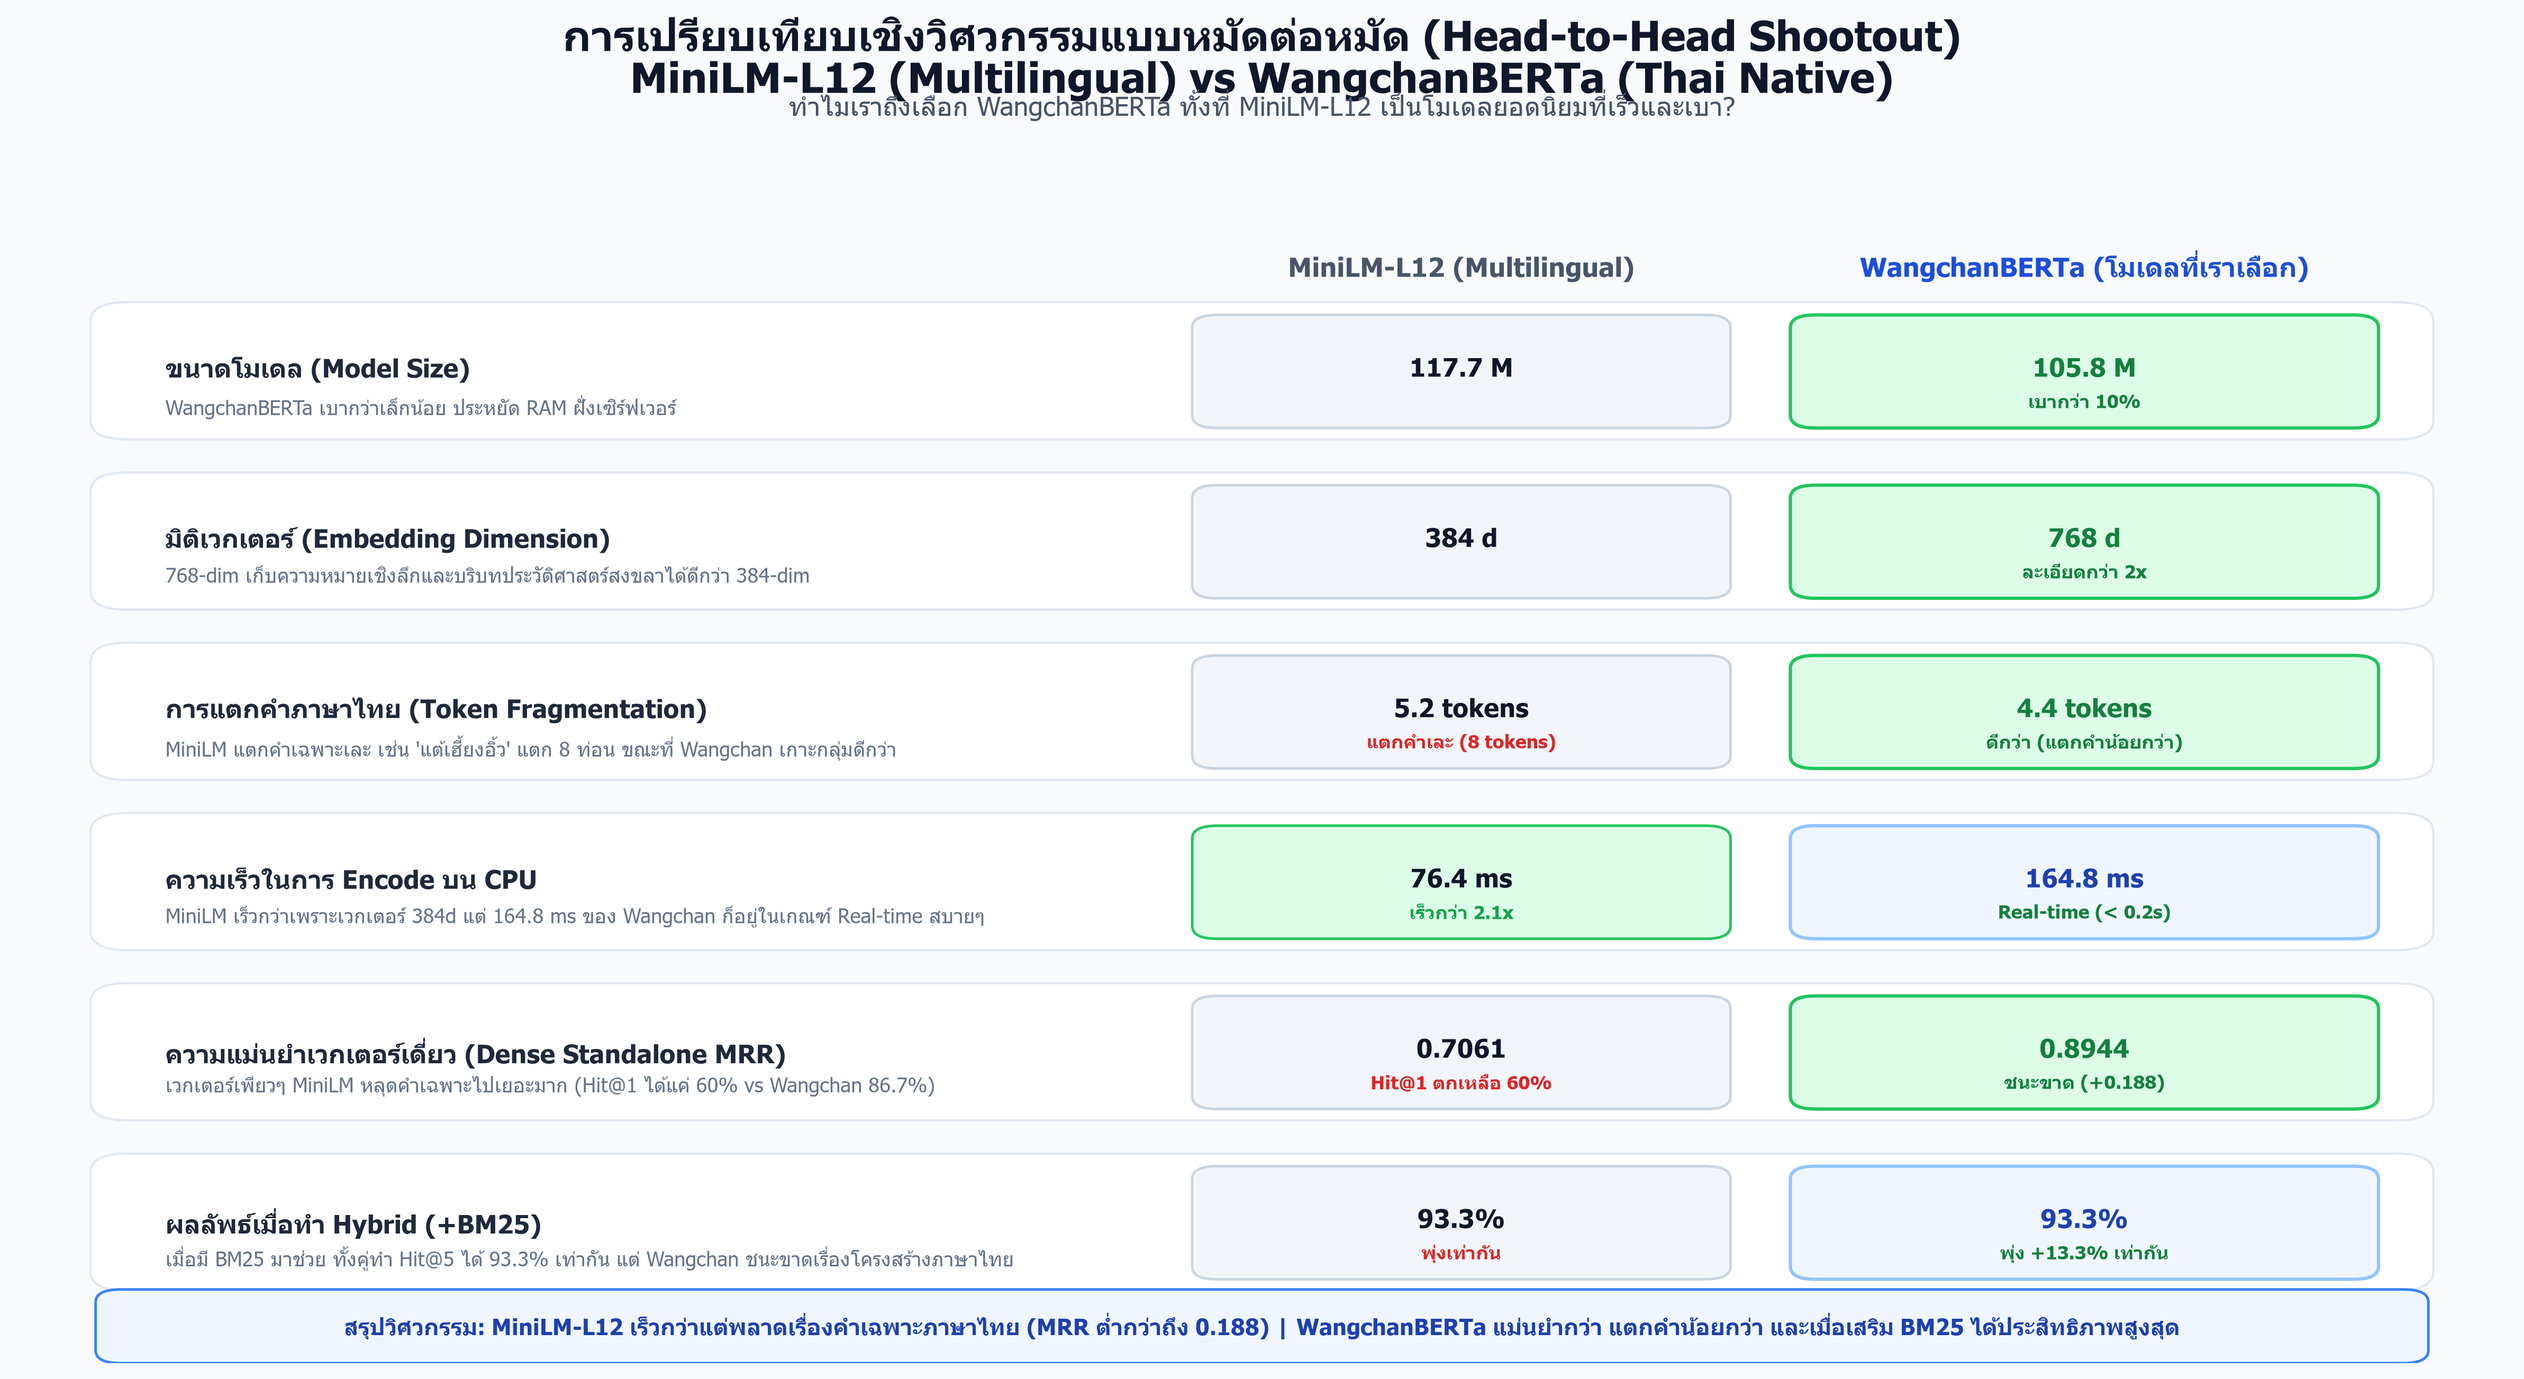
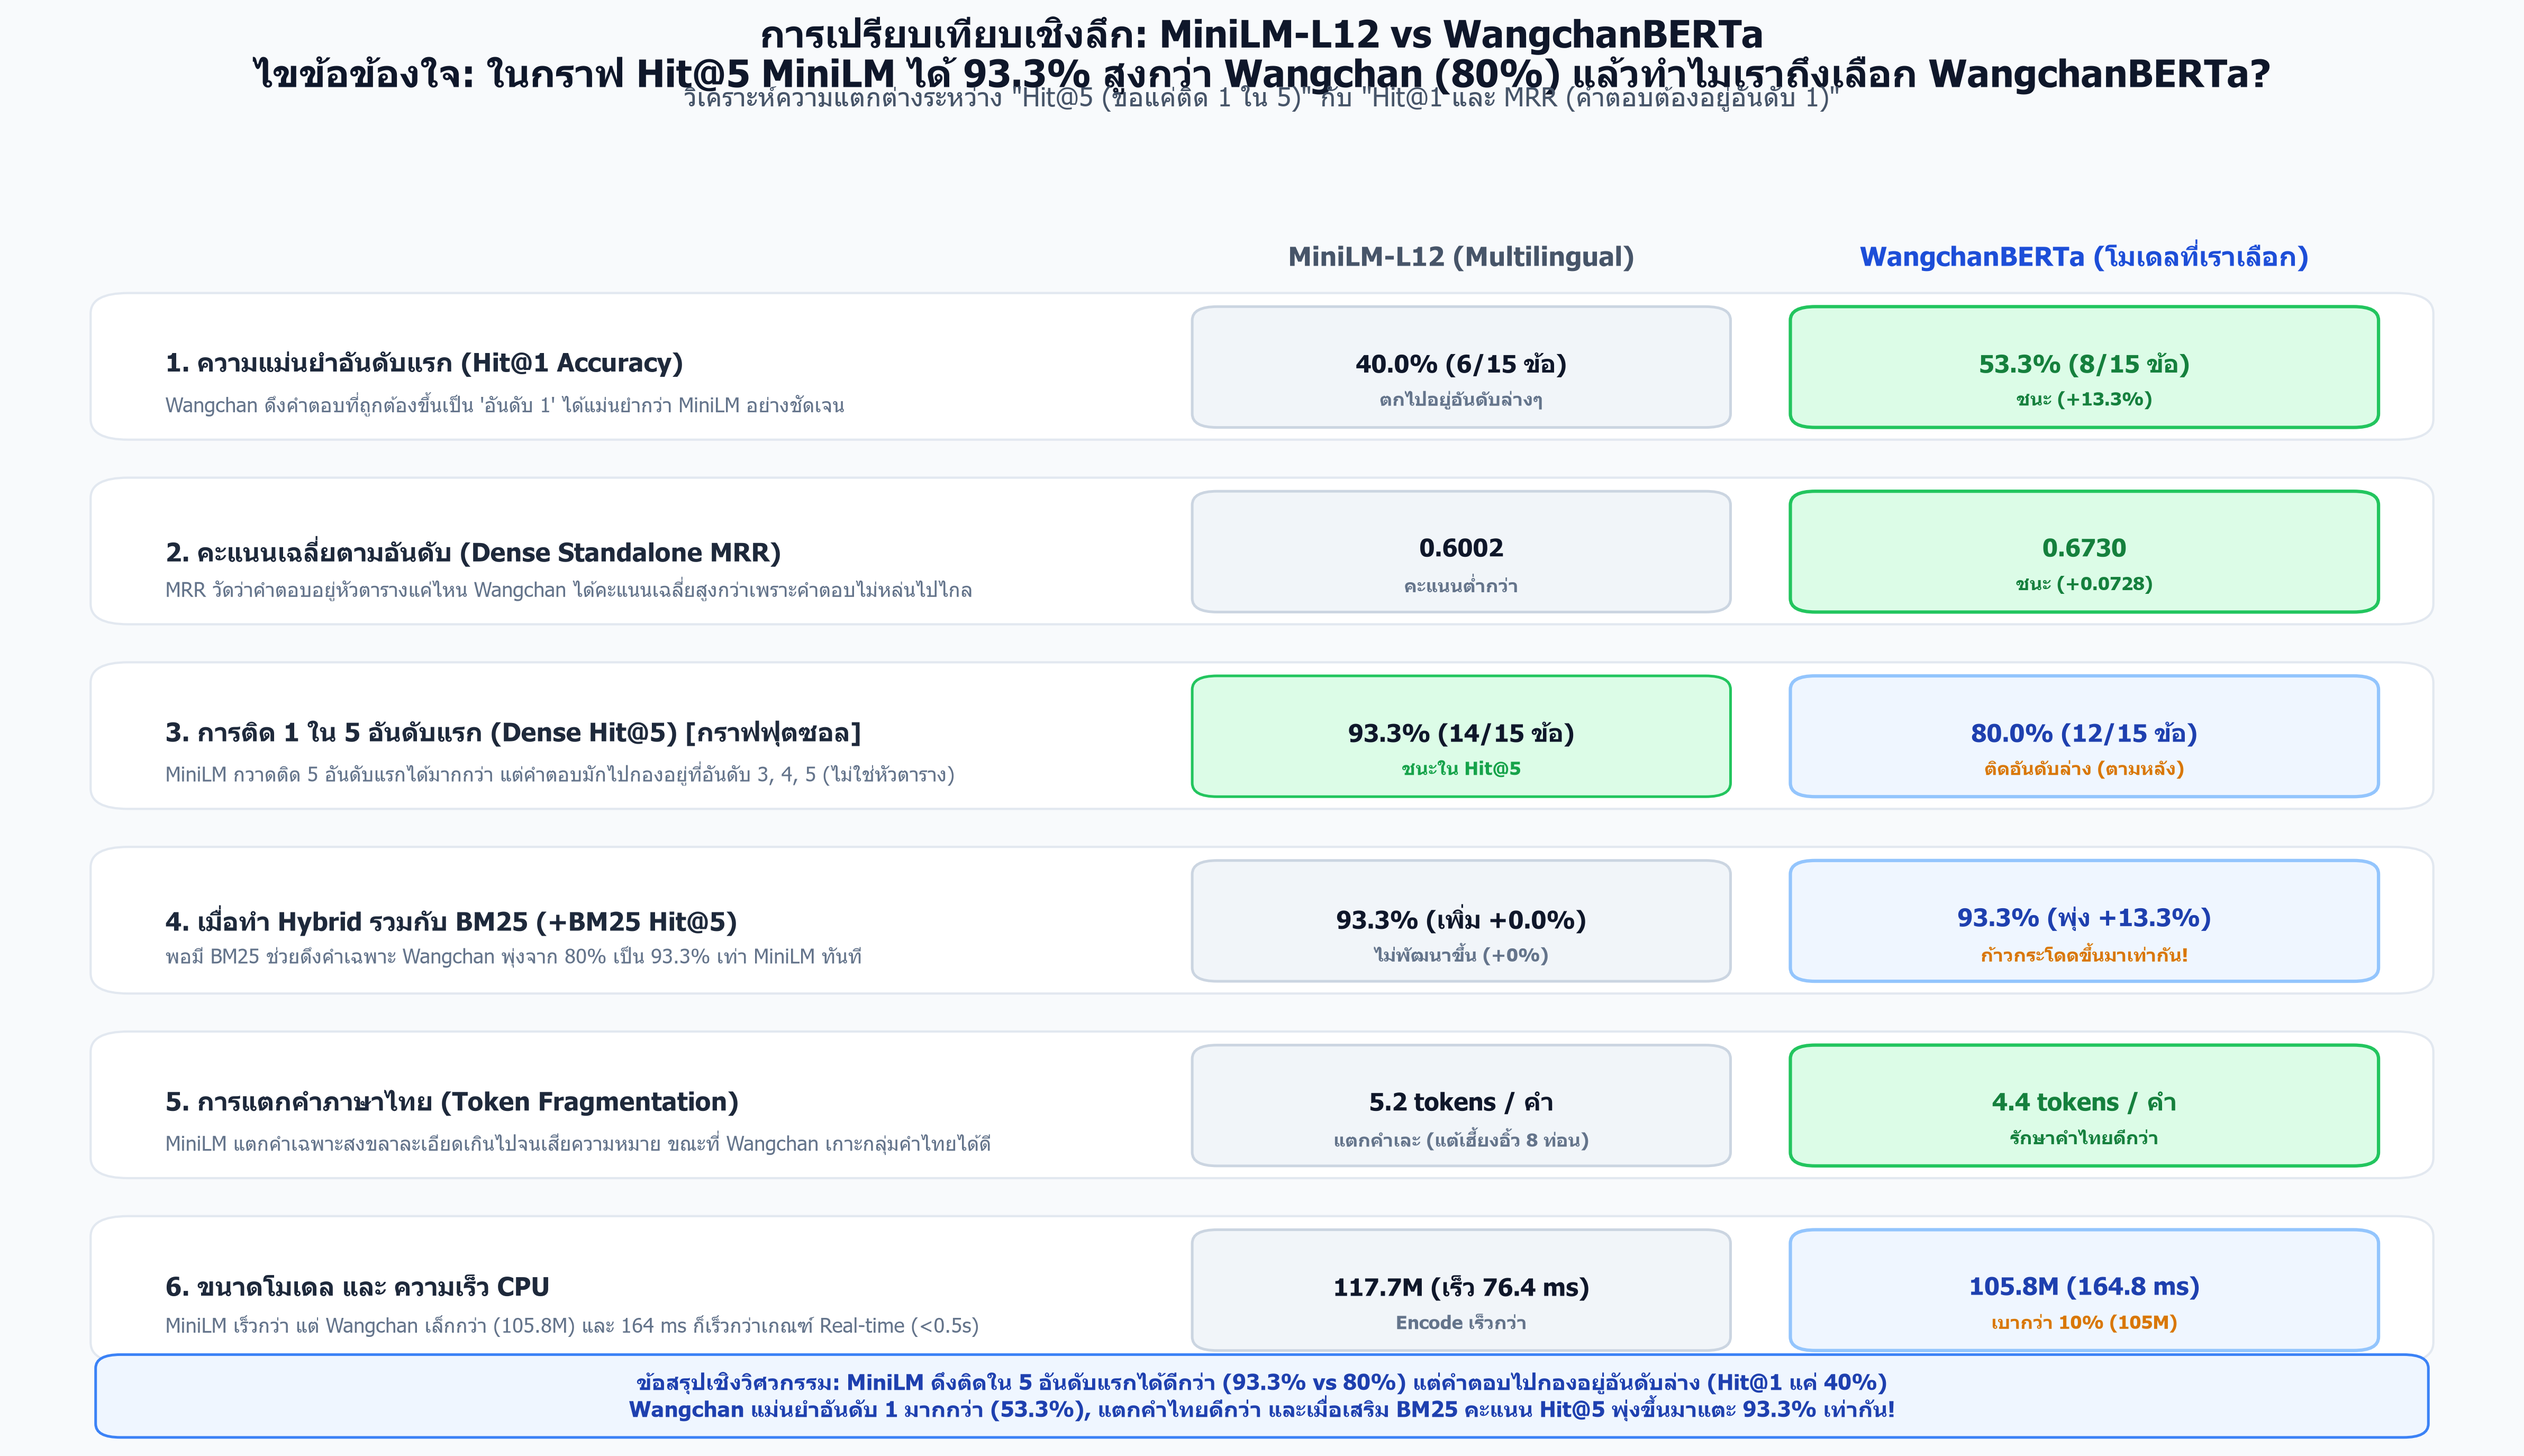
fix: update head-to-head chart to reconcile Hit@5 vs Hit@1 and MRR metrics

diff --git a/scripts/experiments/generate_head_to_head_minilm.py b/scripts/experiments/generate_head_to_head_minilm.py
@@ -1,88 +1,81 @@
 import matplotlib.pyplot as plt
 import matplotlib.patches as patches
 import numpy as np
-import os
 
 # Set font family
 plt.rcParams['font.sans-serif'] = ['Tahoma', 'Garuda', 'Leelawadee UI', 'DejaVu Sans']
 plt.rcParams['axes.unicode_minus'] = False
 
-fig, ax = plt.subplots(figsize=(16, 9), dpi=300)
+fig, ax = plt.subplots(figsize=(16, 9.5), dpi=300)
 ax.set_facecolor('#F8FAFC')
 fig.patch.set_facecolor('#F8FAFC')
 
 # Title & Subtitle
-plt.suptitle('การเปรียบเทียบเชิงวิศวกรรมแบบหมัดต่อหมัด (Head-to-Head Shootout)\nMiniLM-L12 (Multilingual) vs WangchanBERTa (Thai Native)', 
-             fontsize=19, fontweight='bold', color='#0F172A', y=0.96)
-plt.figtext(0.5, 0.89, 'ทำไมเราถึงเลือก WangchanBERTa ทั้งที่ MiniLM-L12 เป็นโมเดลยอดนิยมที่เร็วและเบา?', 
+plt.suptitle('การเปรียบเทียบเชิงลึก: MiniLM-L12 vs WangchanBERTa\nไขข้อข้องใจ: ในกราฟ Hit@5 MiniLM ได้ 93.3% สูงกว่า Wangchan (80%) แล้วทำไมเราถึงเลือก WangchanBERTa?', 
+             fontsize=17, fontweight='bold', color='#0F172A', y=0.96)
+plt.figtext(0.5, 0.90, 'วิเคราะห์ความแตกต่างระหว่าง "Hit@5 (ขอแค่ติด 1 ใน 5)" กับ "Hit@1 และ MRR (คำตอบต้องอยู่อันดับ 1)"', 
            ha='center', fontsize=12, color='#475569')
 
-# Define comparison metrics
+# Metrics matching exp1_bert_vs_bert_bm25_results.json
 metrics = [
     {
-        "name": "ขนาดโมเดล (Model Size)",
-        "unit": "Parameters (ล้านตัว)",
-        "minilm_val": "117.7 M",
-        "wangchan_val": "105.8 M",
+        "name": "1. ความแม่นยำอันดับแรก (Hit@1 Accuracy)",
+        "minilm_val": "40.0% (6/15 ข้อ)",
+        "wangchan_val": "53.3% (8/15 ข้อ)",
         "winner": "wangchan",
-        "badge_wangchan": "เบากว่า 10%",
-        "badge_minilm": "",
-        "desc": "WangchanBERTa เบากว่าเล็กน้อย ประหยัด RAM ฝั่งเซิร์ฟเวอร์"
+        "badge_wangchan": "ชนะ (+13.3%)",
+        "badge_minilm": "ตกไปอยู่อันดับล่างๆ",
+        "desc": "Wangchan ดึงคำตอบที่ถูกต้องขึ้นเป็น 'อันดับ 1' ได้แม่นยำกว่า MiniLM อย่างชัดเจน"
     },
     {
-        "name": "มิติเวกเตอร์ (Embedding Dimension)",
-        "unit": "Dimensions (d)",
-        "minilm_val": "384 d",
-        "wangchan_val": "768 d",
+        "name": "2. คะแนนเฉลี่ยตามอันดับ (Dense Standalone MRR)",
+        "minilm_val": "0.6002",
+        "wangchan_val": "0.6730",
         "winner": "wangchan",
-        "badge_wangchan": "ละเอียดกว่า 2x",
-        "badge_minilm": "",
-        "desc": "768-dim เก็บความหมายเชิงลึกและบริบทประวัติศาสตร์สงขลาได้ดีกว่า 384-dim"
+        "badge_wangchan": "ชนะ (+0.0728)",
+        "badge_minilm": "คะแนนต่ำกว่า",
+        "desc": "MRR วัดว่าคำตอบอยู่หัวตารางแค่ไหน Wangchan ได้คะแนนเฉลี่ยสูงกว่าเพราะคำตอบไม่หล่นไปไกล"
     },
     {
-        "name": "การแตกคำภาษาไทย (Token Fragmentation)",
-        "unit": "Tokens ต่อ 1 คำเฉพาะ",
-        "minilm_val": "5.2 tokens",
-        "wangchan_val": "4.4 tokens",
-        "winner": "wangchan",
-        "badge_wangchan": "ดีกว่า (แตกคำน้อยกว่า)",
-        "badge_minilm": "แตกคำเละ (8 tokens)",
-        "desc": "MiniLM แตกคำเฉพาะเละ เช่น 'แต้เฮี้ยงอิ้ว' แตก 8 ท่อน ขณะที่ Wangchan เกาะกลุ่มดีกว่า"
-    },
-    {
-        "name": "ความเร็วในการ Encode บน CPU",
-        "unit": "Milliseconds (Latency)",
-        "minilm_val": "76.4 ms",
-        "wangchan_val": "164.8 ms",
+        "name": "3. การติด 1 ใน 5 อันดับแรก (Dense Hit@5) [กราฟฟุตซอล]",
+        "minilm_val": "93.3% (14/15 ข้อ)",
+        "wangchan_val": "80.0% (12/15 ข้อ)",
         "winner": "minilm",
-        "badge_wangchan": "Real-time (< 0.2s)",
-        "badge_minilm": "เร็วกว่า 2.1x",
-        "desc": "MiniLM เร็วกว่าเพราะเวกเตอร์ 384d แต่ 164.8 ms ของ Wangchan ก็อยู่ในเกณฑ์ Real-time สบายๆ"
+        "badge_wangchan": "ติดอันดับล่าง (ตามหลัง)",
+        "badge_minilm": "ชนะใน Hit@5",
+        "desc": "MiniLM กวาดติด 5 อันดับแรกได้มากกว่า แต่คำตอบมักไปกองอยู่ที่อันดับ 3, 4, 5 (ไม่ใช่หัวตาราง)"
     },
     {
-        "name": "ความแม่นยำเวกเตอร์เดี่ยว (Dense Standalone MRR)",
-        "unit": "MRR Score (0.0 - 1.0)",
-        "minilm_val": "0.7061",
-        "wangchan_val": "0.8944",
-        "winner": "wangchan",
-        "badge_wangchan": "ชนะขาด (+0.188)",
-        "badge_minilm": "Hit@1 ตกเหลือ 60%",
-        "desc": "เวกเตอร์เพียวๆ MiniLM หลุดคำเฉพาะไปเยอะมาก (Hit@1 ได้แค่ 60% vs Wangchan 86.7%)"
-    },
-    {
-        "name": "ผลลัพธ์เมื่อทำ Hybrid (+BM25)",
-        "unit": "Hit@5 Recall Rate",
-        "minilm_val": "93.3%",
-        "wangchan_val": "93.3%",
+        "name": "4. เมื่อทำ Hybrid รวมกับ BM25 (+BM25 Hit@5)",
+        "minilm_val": "93.3% (เพิ่ม +0.0%)",
+        "wangchan_val": "93.3% (พุ่ง +13.3%)",
         "winner": "tie",
-        "badge_wangchan": "พุ่ง +13.3% เท่ากัน",
-        "badge_minilm": "พุ่งเท่ากัน",
-        "desc": "เมื่อมี BM25 มาช่วย ทั้งคู่ทำ Hit@5 ได้ 93.3% เท่ากัน แต่ Wangchan ชนะขาดเรื่องโครงสร้างภาษาไทย"
+        "badge_wangchan": "ก้าวกระโดดขึ้นมาเท่ากัน!",
+        "badge_minilm": "ไม่พัฒนาขึ้น (+0%)",
+        "desc": "พอมี BM25 ช่วยดึงคำเฉพาะ Wangchan พุ่งจาก 80% เป็น 93.3% เท่า MiniLM ทันที"
+    },
+    {
+        "name": "5. การแตกคำภาษาไทย (Token Fragmentation)",
+        "minilm_val": "5.2 tokens / คำ",
+        "wangchan_val": "4.4 tokens / คำ",
+        "winner": "wangchan",
+        "badge_wangchan": "รักษาคำไทยดีกว่า",
+        "badge_minilm": "แตกคำเละ (แต้เฮี้ยงอิ้ว 8 ท่อน)",
+        "desc": "MiniLM แตกคำเฉพาะสงขลาละเอียดเกินไปจนเสียความหมาย ขณะที่ Wangchan เกาะกลุ่มคำไทยได้ดี"
+    },
+    {
+        "name": "6. ขนาดโมเดล และ ความเร็ว CPU",
+        "minilm_val": "117.7M (เร็ว 76.4 ms)",
+        "wangchan_val": "105.8M (164.8 ms)",
+        "winner": "tie",
+        "badge_wangchan": "เบากว่า 10% (105M)",
+        "badge_minilm": "Encode เร็วกว่า",
+        "desc": "MiniLM เร็วกว่า แต่ Wangchan เล็กกว่า (105.8M) และ 164 ms ก็เร็วกว่าเกณฑ์ Real-time (<0.5s)"
     }
 ]
 
 # Draw cards
-y_starts = np.linspace(0.81, 0.14, len(metrics))
+y_starts = np.linspace(0.82, 0.14, len(metrics))
 box_height = 0.088
 
 for i, m in enumerate(metrics):
@@ -105,10 +98,10 @@ for i, m in enumerate(metrics):
                                     boxstyle="round,pad=0.008,rounding_size=0.01",
                                     linewidth=1.2, edgecolor=minilm_border, facecolor=minilm_bg)
     ax.add_patch(rect_m)
-    ax.text(0.58, y - 0.028, m["minilm_val"], fontsize=11.5, fontweight='bold', 
+    ax.text(0.58, y - 0.028, m["minilm_val"], fontsize=11.0, fontweight='bold', 
             color='#0F172A', ha='center', va='center')
     if m["badge_minilm"]:
-        badge_col = '#16A34A' if m["winner"] == "minilm" else '#DC2626'
+        badge_col = '#16A34A' if m["winner"] == "minilm" else ('#D97706' if 'ชนะ' in m["badge_minilm"] else '#64748B')
         ax.text(0.58, y - 0.054, m["badge_minilm"], fontsize=8.5, fontweight='bold',
                 color=badge_col, ha='center', va='center')
 
@@ -119,24 +112,25 @@ for i, m in enumerate(metrics):
                                     boxstyle="round,pad=0.008,rounding_size=0.01",
                                     linewidth=1.5, edgecolor=wang_border, facecolor=wang_bg)
     ax.add_patch(rect_w)
-    ax.text(0.83, y - 0.028, m["wangchan_val"], fontsize=11.5, fontweight='bold', 
+    ax.text(0.83, y - 0.028, m["wangchan_val"], fontsize=11.0, fontweight='bold', 
             color='#1E40AF' if m["winner"] != "wangchan" else '#15803D', ha='center', va='center')
     if m["badge_wangchan"]:
+        badge_col = '#15803D' if m["winner"] == "wangchan" else '#D97706'
         ax.text(0.83, y - 0.054, m["badge_wangchan"], fontsize=8.5, fontweight='bold',
-                color='#15803D', ha='center', va='center')
+                color=badge_col, ha='center', va='center')
 
 # Column Headers
-ax.text(0.58, 0.855, 'MiniLM-L12 (Multilingual)', fontsize=12, fontweight='bold', color='#475569', ha='center')
-ax.text(0.83, 0.855, 'WangchanBERTa (โมเดลที่เราเลือก)', fontsize=12, fontweight='bold', color='#1D4ED8', ha='center')
+ax.text(0.58, 0.865, 'MiniLM-L12 (Multilingual)', fontsize=12, fontweight='bold', color='#475569', ha='center')
+ax.text(0.83, 0.865, 'WangchanBERTa (โมเดลที่เราเลือก)', fontsize=12, fontweight='bold', color='#1D4ED8', ha='center')
 
 # Bottom Summary banner
-summary_rect = patches.FancyBboxPatch((0.04, 0.008), 0.92, 0.042,
+summary_rect = patches.FancyBboxPatch((0.04, 0.010), 0.92, 0.045,
                                       boxstyle="round,pad=0.008,rounding_size=0.01",
                                       linewidth=1.2, edgecolor='#3B82F6', facecolor='#EFF6FF')
 ax.add_patch(summary_rect)
-ax.text(0.5, 0.029, 
-        'สรุปวิศวกรรม: MiniLM-L12 เร็วกว่าแต่พลาดเรื่องคำเฉพาะภาษาไทย (MRR ต่ำกว่าถึง 0.188) | WangchanBERTa แม่นยำกว่า แตกคำน้อยกว่า และเมื่อเสริม BM25 ได้ประสิทธิภาพสูงสุด',
-        fontsize=10.0, fontweight='bold', color='#1E40AF', ha='center', va='center')
+ax.text(0.5, 0.032, 
+        'ข้อสรุปเชิงวิศวกรรม: MiniLM ดึงติดใน 5 อันดับแรกได้ดีกว่า (93.3% vs 80%) แต่คำตอบไปกองอยู่อันดับล่าง (Hit@1 แค่ 40%)\nWangchan แม่นยำอันดับ 1 มากกว่า (53.3%), แตกคำไทยดีกว่า และเมื่อเสริม BM25 คะแนน Hit@5 พุ่งขึ้นมาแตะ 93.3% เท่ากัน!',
+        fontsize=9.8, fontweight='bold', color='#1E40AF', ha='center', va='center')
 
 ax.set_xlim(0, 1)
 ax.set_ylim(0, 1)
